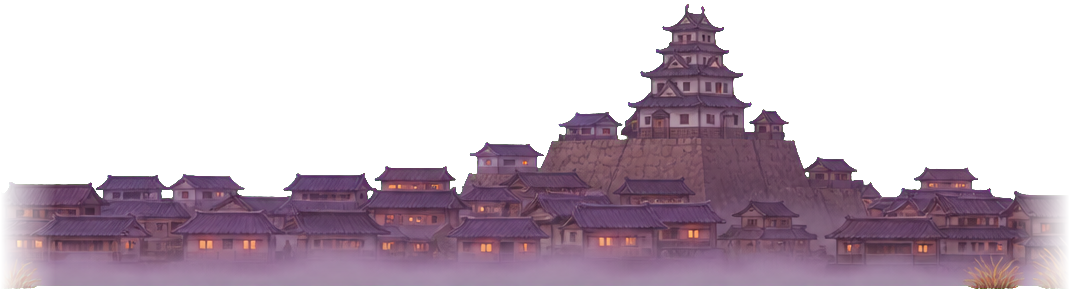
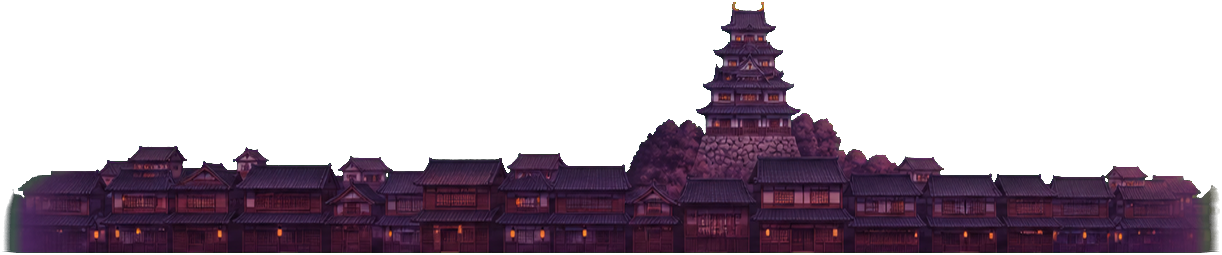
Stage3の遠景の町を「夕闇を焼き込んだ一枚」へ生成し直す(補正の積み重ねを廃止)
「無理にごまかしても違和感残るので生成し直したほうが早い」— そのとおりで、
前の町アセットは素材が明るすぎ、統計合わせ・端のαフェード・強い時刻tintと
補正を三段重ねても白茶けた靄の塊が残っていた。

正しい状態を絵に焼き込んで生成し直した:
・【暗い夕闇の町】(暗い灰紫〜臙脂の影)。窓と軒下の橙の灯りだけが効く
・靄は薄暗い紫(白い霧を厳禁に)
・左右の端は建物を裁ち切らず【靄の中に溶けて終わる】(後処理の端フェード廃止)
・柵・道なし。地面線(実測 253/255)に全て着地
・低い町並みの帯 + 小さな丘の石垣上に天守(頂の高さ244行)

後処理は dekey と緑かぶり抑制(968画素)のみ。
時刻の色調は山の0.30に対し町は0.12へ弱めた(暗い絵に強いtintは橙に浮く)。

※ boss.js は並行セッションが作業中(未コミット差分168行)のため、
   このコミットから除外し、?v= も o のまま残した(クエリ違いでも同一実体を
   取得するため動作に影響なし)。

?v= は screen-safe-20260815p へ一括バンプ(boss.jsのみ意図的にo)。

diff --git a/js/game.js b/js/game.js
@@ -2,17 +2,17 @@
 // Unification of the Nation - ゲームコア
 // ============================================
 
-import { CANVAS_WIDTH, SCREEN_WIDTH, CANVAS_HEIGHT, GAME_STATE, STAGES, DIFFICULTY, OBSTACLE_TYPES, PLAYER, STAGE_DEFAULT_WEAPON, LANE_OFFSET, STAGE5_FLOOR, STAGE6_CORNER, UI_SIZE_ANCHOR, getDeviceProfile, setUiScaleFromFitScale, setCornerInsets, setNotchInsetX, setVirtualPadVisible, setBgmButtonVisible, isTouchOverlayMode } from './constants.js?v=screen-safe-20260815o';
-import { BOSS_STAGING } from './bossStaging.js?v=screen-safe-20260815o';
-import { isUpdateAvailable, applyUpdate, checkForUpdate } from './appUpdate.js?v=screen-safe-20260815o';
-import { getStageSelectLayout, renderStageSelect, STAGE_SELECT_ORDER } from './stageSelect.js?v=screen-safe-20260815o';
-import { clearFilteredImageCache, getFilteredImageCacheStats } from './filteredImage.js?v=screen-safe-20260815o';
-import { BonusStage, BONUS_STAGE_IMAGES } from './bonusStage.js?v=screen-safe-20260815o';
-import { TrainingStage, TRAINING_STAGE_IMAGES } from './trainingStage.js?v=screen-safe-20260815o';
-import { sideBestKey, normalizeSideBests, getSideBest } from './sideStageCommon.js?v=screen-safe-20260815o';
-import { preloadImages, areImagesSettled } from './imageCache.js?v=screen-safe-20260815o';
-import { readPhysicalScreen, computeScreenWidth } from './screenGeometry.js?v=screen-safe-20260815o';
-import { input } from './input.js?v=screen-safe-20260815o';
+import { CANVAS_WIDTH, SCREEN_WIDTH, CANVAS_HEIGHT, GAME_STATE, STAGES, DIFFICULTY, OBSTACLE_TYPES, PLAYER, STAGE_DEFAULT_WEAPON, LANE_OFFSET, STAGE5_FLOOR, STAGE6_CORNER, UI_SIZE_ANCHOR, getDeviceProfile, setUiScaleFromFitScale, setCornerInsets, setNotchInsetX, setVirtualPadVisible, setBgmButtonVisible, isTouchOverlayMode } from './constants.js?v=screen-safe-20260815p';
+import { BOSS_STAGING } from './bossStaging.js?v=screen-safe-20260815p';
+import { isUpdateAvailable, applyUpdate, checkForUpdate } from './appUpdate.js?v=screen-safe-20260815p';
+import { getStageSelectLayout, renderStageSelect, STAGE_SELECT_ORDER } from './stageSelect.js?v=screen-safe-20260815p';
+import { clearFilteredImageCache, getFilteredImageCacheStats } from './filteredImage.js?v=screen-safe-20260815p';
+import { BonusStage, BONUS_STAGE_IMAGES } from './bonusStage.js?v=screen-safe-20260815p';
+import { TrainingStage, TRAINING_STAGE_IMAGES } from './trainingStage.js?v=screen-safe-20260815p';
+import { sideBestKey, normalizeSideBests, getSideBest } from './sideStageCommon.js?v=screen-safe-20260815p';
+import { preloadImages, areImagesSettled } from './imageCache.js?v=screen-safe-20260815p';
+import { readPhysicalScreen, computeScreenWidth } from './screenGeometry.js?v=screen-safe-20260815p';
+import { input } from './input.js?v=screen-safe-20260815p';
 
 // 最上層の会敵歩行の速度倍率。決戦前の一歩を重くするため通常より遅く歩かせる。
 const STAGE6_APPROACH_SPEED_SCALE = 0.46;   // 会敵歩行の速さ(通常歩行に対する比)
@@ -50,18 +50,18 @@ const STAGE6_DUEL_LEAD_OUT_MS = 1400;   // 開戦後に通常追従へ戻す
 // ボスが足を止めてから名乗りまでの実測483msで残差1.5pxまで収束する。
 const STAGE6_DUEL_LEAD_OMEGA = 12;
 const STAGE6_DUEL_LEAD_MAX_PX = 460;    // 先行量の上限(異常な間合いでカメラが飛ばない保険)
-import { Player } from './player.js?v=screen-safe-20260815o';
-import { createSubWeapon } from './weapon.js?v=screen-safe-20260815o';
-import { Stage, preloadStageImages, prefetchStageImages, areStageImagesSettled } from './stage.js?v=screen-safe-20260815o';
-import { GRAPPLE_PHASE } from './stage6Grapple.js?v=screen-safe-20260815o';
-import { UI, renderTitleScreen, renderTitleDebugWindow, renderGameOverScreen, renderStatusScreen, renderStageClearAnnouncement, renderLevelUpChoiceScreen, getLevelUpChoiceLayout, renderSideResultScreen, getSideResultLayout, renderPauseScreen, getPauseReturnButton, getPauseMapButton, renderGameClearScreen, renderIntro, renderEnding, getTitleScreenLayout, getStatusScreenLayout, getTitleDebugLayout, getUpdateModalLayout, renderBossNameBanner, getBossNameBannerBox } from './ui.js?v=screen-safe-20260815o';
-import { CollisionManager, checkPlayerEnemyCollision, checkEnemyAttackHit } from './collision.js?v=screen-safe-20260815o';
-import { saveManager } from './save.js?v=screen-safe-20260815o';
-import { shop } from './shop.js?v=screen-safe-20260815o';
-import { audio } from './audio.js?v=screen-safe-20260815o';
-import { ShadowRenderer } from './shadow.js?v=screen-safe-20260815o';
-import { applyShogunCombat } from './shogunCombatHelper.js?v=screen-safe-20260815o';
-import { getRockVisualPalette } from './obstacle.js?v=screen-safe-20260815o';
+import { Player } from './player.js?v=screen-safe-20260815p';
+import { createSubWeapon } from './weapon.js?v=screen-safe-20260815p';
+import { Stage, preloadStageImages, prefetchStageImages, areStageImagesSettled } from './stage.js?v=screen-safe-20260815p';
+import { GRAPPLE_PHASE } from './stage6Grapple.js?v=screen-safe-20260815p';
+import { UI, renderTitleScreen, renderTitleDebugWindow, renderGameOverScreen, renderStatusScreen, renderStageClearAnnouncement, renderLevelUpChoiceScreen, getLevelUpChoiceLayout, renderSideResultScreen, getSideResultLayout, renderPauseScreen, getPauseReturnButton, getPauseMapButton, renderGameClearScreen, renderIntro, renderEnding, getTitleScreenLayout, getStatusScreenLayout, getTitleDebugLayout, getUpdateModalLayout, renderBossNameBanner, getBossNameBannerBox } from './ui.js?v=screen-safe-20260815p';
+import { CollisionManager, checkPlayerEnemyCollision, checkEnemyAttackHit } from './collision.js?v=screen-safe-20260815p';
+import { saveManager } from './save.js?v=screen-safe-20260815p';
+import { shop } from './shop.js?v=screen-safe-20260815p';
+import { audio } from './audio.js?v=screen-safe-20260815p';
+import { ShadowRenderer } from './shadow.js?v=screen-safe-20260815p';
+import { applyShogunCombat } from './shogunCombatHelper.js?v=screen-safe-20260815p';
+import { getRockVisualPalette } from './obstacle.js?v=screen-safe-20260815p';
 
 // 端末ディスプレイの角丸推定（updateCornerInsets が使う）。
 // R ≒ 画面短辺 × 11%。退避量はコーナー円の幾何最小 0.293R に円形ボタンぶんの
@@ -1183,7 +1183,7 @@ class Game {
         shop.reset();
 
         // 武器作成関数をインポート
-        import('./weapon.js?v=screen-safe-20260815o').then(module => {
+        import('./weapon.js?v=screen-safe-20260815p').then(module => {
             // 基本ステータス復元
             this.currentStageNumber = saveData.progress.currentStage;
             // セレクト画面の解放判定。旧セーブ(フィールド無し)は「保存された次のステージ

diff --git a/js/stage.js b/js/stage.js
@@ -2,23 +2,23 @@
 // Unification of the Nation - ステージ管理
 // ============================================
 
-import { CANVAS_WIDTH, CANVAS_HEIGHT, SCREEN_WIDTH, STAGES, ENEMY_TYPES, OBSTACLE_TYPES, LANE_OFFSET, STAGE5_FLOOR, STAGE6_CORNER } from './constants.js?v=screen-safe-20260815o';
-import { BOSS_STAGING } from './bossStaging.js?v=screen-safe-20260815o';
-import { createEnemy } from './enemy.js?v=screen-safe-20260815o';
-import { createBoss } from './boss.js?v=screen-safe-20260815o';
-import { createObstacle } from './obstacle.js?v=screen-safe-20260815o';
-import { audio } from './audio.js?v=screen-safe-20260815o';
-import { generateStairsCanvas } from './stairRenderer.js?v=screen-safe-20260815o';
+import { CANVAS_WIDTH, CANVAS_HEIGHT, SCREEN_WIDTH, STAGES, ENEMY_TYPES, OBSTACLE_TYPES, LANE_OFFSET, STAGE5_FLOOR, STAGE6_CORNER } from './constants.js?v=screen-safe-20260815p';
+import { BOSS_STAGING } from './bossStaging.js?v=screen-safe-20260815p';
+import { createEnemy } from './enemy.js?v=screen-safe-20260815p';
+import { createBoss } from './boss.js?v=screen-safe-20260815p';
+import { createObstacle } from './obstacle.js?v=screen-safe-20260815p';
+import { audio } from './audio.js?v=screen-safe-20260815p';
+import { generateStairsCanvas } from './stairRenderer.js?v=screen-safe-20260815p';
 import {
     GRAPPLE_PHASE, createGrappleState, isGrappleActive, grappleProgress,
     startGrapple, updateGrapple, updateGrappleVisual, grapplePullEase, grapplePullPosition,
     renderGrappleBehind, renderGrappleFront
-} from './stage6Grapple.js?v=screen-safe-20260815o';
-import { getImage, preloadImages, prefetchImages, areImagesSettled, shouldSkipPrefetch } from './imageCache.js?v=screen-safe-20260815o';
+} from './stage6Grapple.js?v=screen-safe-20260815p';
+import { getImage, preloadImages, prefetchImages, areImagesSettled, shouldSkipPrefetch } from './imageCache.js?v=screen-safe-20260815p';
 // 画像描画は drawImageGraded を通す。ctx.filter が none のときは素通しで、
 // 掛かっているときだけフィルタ済みキャッシュを貼る(毎フレームの色調フィルタが
 // 低スペック端末での処理落ちの主因だった。詳細は filteredImage.js)。
-import { drawImageGraded } from './filteredImage.js?v=screen-safe-20260815o';
+import { drawImageGraded } from './filteredImage.js?v=screen-safe-20260815p';
 
 /**
  * 背景の添景を床帯のどこに植えるか（groundY からの奥行き）。
@@ -76,7 +76,7 @@ const STAGE_IMAGE_SOURCES = {
     },
     3: {
         fields: {
-            stage3TownFarImage: 'images/stage3_town_far.png?v=20260815_far2',
+            stage3TownFarImage: 'images/stage3_town_far.png?v=20260815_far3',
             stage3RangeTailImage: 'images/stage3_range_tail.png?v=20260815_tail2',
             stage3GroundImage: 'images/stage3_ground_mountain_tile.png',
             // 遠景の山並み。1枚をミラー連結してあるので横に繰り返すと稜線が繋がる
@@ -4891,9 +4891,12 @@ export class Stage {
             // (実機フィードバック 2026-08-15)。
             const town = this.stage3TownFarImage;
             if (town?.complete && town.naturalWidth > 0 && town.naturalHeight > 0) {
-                const townTinted = this.getStage3MountainTinted(town, tone);
-                const T_H = 140;
-                const T_GROUND = 286 / 293; // 実測: 地面線の行 / 画像の高さ
+                // 町は山ほど時刻の色へ寄せない(暗い夕闇を焼き込んだアセットなので、
+                // 山と同じ0.30の霞だと橙寄りに浮く。0.12で軽く馴染ませるだけ)。
+                const townTone = this.interpolateColor(currentPalette.mid, horizonSky, 0.12);
+                const townTinted = this.getStage3MountainTinted(town, townTone);
+                const T_H = 138;                 // 天守の頂が高さ約132px(=134相当を維持)
+                const T_GROUND = 253 / 255; // 実測: 地面線の行 / 画像の高さ
                 const tW = Math.round(T_H * (town.naturalWidth / town.naturalHeight));
                 // 停止時に画面 x=520 へ来るよう、遠景の座標系(=同じparallax)で置く
                 const townAnchor = 520 + (this.maxProgress - CANVAS_WIDTH) * spec.parallax;

diff --git a/js/player.js b/js/player.js
@@ -2,11 +2,11 @@
 // Unification of the Nation - プレイヤークラス
 // ============================================
 
-import { PLAYER, GRAVITY, FRICTION, COLORS, LANE_OFFSET } from './constants.js?v=screen-safe-20260815o';
-import { input } from './input.js?v=screen-safe-20260815o';
+import { PLAYER, GRAVITY, FRICTION, COLORS, LANE_OFFSET } from './constants.js?v=screen-safe-20260815p';
+import { input } from './input.js?v=screen-safe-20260815p';
 console.log('[player.js] Imported input instance:', input ? input.instanceId : 'undefined');
-import { audio } from './audio.js?v=screen-safe-20260815o';
-import { game } from './game.js?v=screen-safe-20260815o';
+import { audio } from './audio.js?v=screen-safe-20260815p';
+import { game } from './game.js?v=screen-safe-20260815p';
 import {
     ANIM_STATE, COMBO_ATTACKS, calcExpToNextForLevel,
     BASE_EXP_TO_NEXT, TEMP_NINJUTSU_MAX_STACK_MS, LEVEL_UP_MAX_HP_GAIN, LEVEL_UP_ATK_GAIN,
@@ -14,17 +14,17 @@ import {
     PLAYER_PONYTAIL_CONNECT_LIFT_Y, PLAYER_PONYTAIL_ROOT_ANGLE_RIGHT,
     PLAYER_PONYTAIL_ROOT_ANGLE_LEFT, PLAYER_PONYTAIL_ROOT_SHIFT_X,
     PLAYER_PONYTAIL_NODE_ROOT_OFFSET_X, PLAYER_PONYTAIL_NODE_ROOT_OFFSET_Y
-} from './playerData.js?v=screen-safe-20260815o';
+} from './playerData.js?v=screen-safe-20260815p';
 import {
     applyNormalComboActiveMotion,
     applyNormalComboStartMotion,
     freezeNormalComboFinisherTrailCurve,
     prepareNormalComboFinisherProfile
-} from './normalComboMotion.js?v=screen-safe-20260815o';
-import { applyRendererMixin }    from './playerRenderer.js?v=screen-safe-20260815o';
-import { applySlashTrailMixin }  from './playerSlashTrail.js?v=screen-safe-20260815o';
-import { applySpecialMixin }     from './playerSpecial.js?v=screen-safe-20260815o';
-import { applyShogunCombat }    from './shogunCombatHelper.js?v=screen-safe-20260815o';
+} from './normalComboMotion.js?v=screen-safe-20260815p';
+import { applyRendererMixin }    from './playerRenderer.js?v=screen-safe-20260815p';
+import { applySlashTrailMixin }  from './playerSlashTrail.js?v=screen-safe-20260815p';
+import { applySpecialMixin }     from './playerSpecial.js?v=screen-safe-20260815p';
+import { applyShogunCombat }    from './shogunCombatHelper.js?v=screen-safe-20260815p';
 import {
     SHOGUN_ACTOR_BASE_HEIGHT,
     SHOGUN_ACTOR_BASE_WIDTH,
@@ -38,7 +38,7 @@ import {
     SHOGUN_CROUCH_STANCE_DUTY,
     NINJA_CROUCH_STRIDE_AMP,
     SHOGUN_CROUCH_STRIDE_AMP
-} from './shogunConstants.js?v=screen-safe-20260815o';
+} from './shogunConstants.js?v=screen-safe-20260815p';
 
 const clamp01 = (v) => Math.max(0, Math.min(1, v));
 

diff --git a/js/ui.js b/js/ui.js
@@ -2,9 +2,9 @@
 // Unification of the Nation - UIクラス
 // ============================================
 
-import { SCREEN_WIDTH, CANVAS_HEIGHT, COLORS, VIRTUAL_PAD, HUD_PANEL_X, getDeviceProfile, getPadLayout, getUiScale, getFontScale, getFitScale, getScreenSafeArea, getUiLeftEdge, getFullHeightSideInset, isTouchOverlayMode, setVirtualPadVisible } from './constants.js?v=screen-safe-20260815o';
+import { SCREEN_WIDTH, CANVAS_HEIGHT, COLORS, VIRTUAL_PAD, HUD_PANEL_X, getDeviceProfile, getPadLayout, getUiScale, getFontScale, getFitScale, getScreenSafeArea, getUiLeftEdge, getFullHeightSideInset, isTouchOverlayMode, setVirtualPadVisible } from './constants.js?v=screen-safe-20260815p';
 
-import { isUpdateAvailable } from './appUpdate.js?v=screen-safe-20260815o';
+import { isUpdateAvailable } from './appUpdate.js?v=screen-safe-20260815p';
 
 // 左上HUDの文字だけ、実寸アンカー(getFontScale)からさらに落とす係数。
 // 実測 16.0css-px は情報量の割に大きいという実機フィードバック(2026-08-09)。
@@ -22,9 +22,9 @@ const UPDATE_MODAL_TITLE = '新しいバージョンがあります';
 const UPDATE_MODAL_BODY = '最新の状態に更新してください';
 const UPDATE_MODAL_BUTTON_TOUCH = 'タップして更新';
 const UPDATE_MODAL_BUTTON_KEY = 'クリックまたはSPACEで更新';
-import { input } from './input.js?v=screen-safe-20260815o';
-import { audio } from './audio.js?v=screen-safe-20260815o';
-import { saveManager } from './save.js?v=screen-safe-20260815o';
+import { input } from './input.js?v=screen-safe-20260815p';
+import { audio } from './audio.js?v=screen-safe-20260815p';
+import { saveManager } from './save.js?v=screen-safe-20260815p';
 
 const CONTROL_MANUAL_TEXT = '←→：移動 | ↓：しゃがみ | ↑・SPACE：ジャンプ | Z：攻撃 | X：忍具 | C：切り替え | S：奥義 | SHIFT：ダッシュ | ESC：ポーズ';
 const TITLE_MANUAL_TEXT = '↑↓：選択 | ←→：難易度 | SPACE：決定';

diff --git a/js/playerRenderer.js b/js/playerRenderer.js
@@ -1,17 +1,17 @@
 // Unification of the Nation - 描画系 mixin
 
-import { PLAYER, GRAVITY, FRICTION, COLORS, LANE_OFFSET } from './constants.js?v=screen-safe-20260815o';
-import { audio } from './audio.js?v=screen-safe-20260815o';
-import { game } from './game.js?v=screen-safe-20260815o';
+import { PLAYER, GRAVITY, FRICTION, COLORS, LANE_OFFSET } from './constants.js?v=screen-safe-20260815p';
+import { audio } from './audio.js?v=screen-safe-20260815p';
+import { game } from './game.js?v=screen-safe-20260815p';
 import {
     ANIM_STATE, COMBO_ATTACKS, PLAYER_HEADBAND_LINE_WIDTH, PLAYER_SPECIAL_HEADBAND_LINE_WIDTH,
     PLAYER_PONYTAIL_CONNECT_LIFT_Y, PLAYER_PONYTAIL_ROOT_ANGLE_RIGHT,
     PLAYER_PONYTAIL_ROOT_ANGLE_LEFT, PLAYER_PONYTAIL_ROOT_SHIFT_X,
     PLAYER_PONYTAIL_NODE_ROOT_OFFSET_X, PLAYER_PONYTAIL_NODE_ROOT_OFFSET_Y,
     BASE_EXP_TO_NEXT, TEMP_NINJUTSU_MAX_STACK_MS, LEVEL_UP_MAX_HP_GAIN
-} from './playerData.js?v=screen-safe-20260815o';
-import { applyShogunRendererMixin } from './shogunRendererHelper.js?v=screen-safe-20260815o';
-import { drawImageGraded } from './filteredImage.js?v=screen-safe-20260815o';
+} from './playerData.js?v=screen-safe-20260815p';
+import { applyShogunRendererMixin } from './shogunRendererHelper.js?v=screen-safe-20260815p';
+import { drawImageGraded } from './filteredImage.js?v=screen-safe-20260815p';
 import {
     SHOGUN_SCALE,
     SHOGUN_ACTOR_BASE_HEIGHT,
@@ -37,7 +37,7 @@ import {
     NINJA_CROUCH_LIFT_AMP,
     SHOGUN_CROUCH_LIFT_AMP,
     SHOGUN_RUN_STRIDE_CENTER_BIAS
-} from './shogunConstants.js?v=screen-safe-20260815o';
+} from './shogunConstants.js?v=screen-safe-20260815p';
 
 export function applyRendererMixin(PlayerClass) {
     applyShogunRendererMixin(PlayerClass);

diff --git a/js/enemy.js b/js/enemy.js
@@ -2,13 +2,13 @@
 // Unification of the Nation - 敵クラス
 // ============================================
 
-import { ENEMY_TYPES, GRAVITY, CANVAS_WIDTH, LANE_OFFSET } from './constants.js?v=screen-safe-20260815o';
+import { ENEMY_TYPES, GRAVITY, CANVAS_WIDTH, LANE_OFFSET } from './constants.js?v=screen-safe-20260815p';
 /* 雑魚・中ボスもフロアボスと同じ素体リグで描く(bodyHeight で縮小するだけ)。
    旧 renderUnifiedEnemyModel は当面デッドコードとして残す。 */
 import {
     MOB_DESIGNS, renderBossActor,
     mobSpear, mobKatana, mobShuriken, mobNaginata
-} from './bossRenderer.js?v=screen-safe-20260815o';
+} from './bossRenderer.js?v=screen-safe-20260815p';
 
 /* 雑魚の素体は【忍者(プレイヤー)と同じ大きさ】で描く。
    実測(細い黒=刀の柄を除外して頭頂を検出): プレイヤーの描画全高は箱と同じ 72px、
@@ -17,7 +17,7 @@ import {
    雑魚3種は 72 に揃える(当たり判定は変更しない)。
    中ボスの武将は格を出すため自分の箱(90)のまま。 */
 const PLAYER_BODY_H = 70.32;   // 忍者の描画全高 = height(72) - 頭半径(16.8)*0.1
-import { audio } from './audio.js?v=screen-safe-20260815o';
+import { audio } from './audio.js?v=screen-safe-20260815p';
 
 const ENEMY_HEADBAND_BASE = '#4f2f72';
 const ENEMY_HEADBAND_HIGHLIGHT = '#7e58a6';

diff --git a/js/trainingStage.js b/js/trainingStage.js
@@ -15,10 +15,10 @@
 // 遠近の付いた床を焼き込んだ絵をそのまま敷くと他ステージと奥行きの文法が食い違う。
 // 固定画面なのでパララックス不要。読めない環境ではコード描画にフォールバック。
 
-import { CANVAS_WIDTH, CANVAS_HEIGHT, LANE_OFFSET, ENEMY_TYPES } from './constants.js?v=screen-safe-20260815o';
-import { createEnemy } from './enemy.js?v=screen-safe-20260815o';
-import { getImage } from './imageCache.js?v=screen-safe-20260815o';
-import { pushGain, updateGainPops, renderGainPops, tickTimeLimit, clampToLeftEdge } from './sideStageCommon.js?v=screen-safe-20260815o';
+import { CANVAS_WIDTH, CANVAS_HEIGHT, LANE_OFFSET, ENEMY_TYPES } from './constants.js?v=screen-safe-20260815p';
+import { createEnemy } from './enemy.js?v=screen-safe-20260815p';
+import { getImage } from './imageCache.js?v=screen-safe-20260815p';
+import { pushGain, updateGainPops, renderGainPops, tickTimeLimit, clampToLeftEdge } from './sideStageCommon.js?v=screen-safe-20260815p';
 
 // 開始前に読み込む画像（game.requestStageStart が本編と同じ暗幕待ちに使う）
 export const TRAINING_STAGE_IMAGES = [

diff --git a/js/playerSlashTrail.js b/js/playerSlashTrail.js
@@ -1,17 +1,17 @@
 // Unification of the Nation - 斬撃トレイル mixin
 
-import { PLAYER, GRAVITY, FRICTION, LANE_OFFSET } from './constants.js?v=screen-safe-20260815o';
-import { COMBO_ATTACKS, NORMAL_COMBO_STEP3_LAUNCH_VY, NORMAL_COMBO_STEP3_LUNGE_HSCALE_COEF, SHOGUN_STEP3_MOTION_SCALE } from './playerData.js?v=screen-safe-20260815o';
+import { PLAYER, GRAVITY, FRICTION, LANE_OFFSET } from './constants.js?v=screen-safe-20260815p';
+import { COMBO_ATTACKS, NORMAL_COMBO_STEP3_LAUNCH_VY, NORMAL_COMBO_STEP3_LUNGE_HSCALE_COEF, SHOGUN_STEP3_MOTION_SCALE } from './playerData.js?v=screen-safe-20260815p';
 import {
     SHOGUN_ACTOR_BASE_WIDTH,
     SHOGUN_ACTOR_BASE_HEIGHT,
     SHOGUN_ARM_REACH_SCALE
-} from './shogunConstants.js?v=screen-safe-20260815o';
+} from './shogunConstants.js?v=screen-safe-20260815p';
 import {
     freezeNormalComboFinisherTrailCurve,
     getNormalComboStep4RiseScale,
     getNormalComboStep5DownwardControl
-} from './normalComboMotion.js?v=screen-safe-20260815o';
+} from './normalComboMotion.js?v=screen-safe-20260815p';
 
 const COMBO_STEP5_END_TRIM_FACTOR = 0.9;
 const getComboStep5EndTrimFactor = (physicalScale = 1) => {

diff --git a/js/playerSpecial.js b/js/playerSpecial.js
@@ -1,16 +1,16 @@
 // Unification of the Nation - 分身クローン mixin
 
-import { PLAYER, LANE_OFFSET } from './constants.js?v=screen-safe-20260815o';
-import { audio } from './audio.js?v=screen-safe-20260815o';
-import { createSubWeapon } from './weapon.js?v=screen-safe-20260815o';
-import { ANIM_STATE, COMBO_ATTACKS } from './playerData.js?v=screen-safe-20260815o';
+import { PLAYER, LANE_OFFSET } from './constants.js?v=screen-safe-20260815p';
+import { audio } from './audio.js?v=screen-safe-20260815p';
+import { createSubWeapon } from './weapon.js?v=screen-safe-20260815p';
+import { ANIM_STATE, COMBO_ATTACKS } from './playerData.js?v=screen-safe-20260815p';
 import {
     SHOGUN_ACTOR_BASE_WIDTH,
     SHOGUN_ACTOR_BASE_HEIGHT,
     SHOGUN_SCALE,
     SHOGUN_SPECIAL_CLONE_SPACING_SCALE
-} from './shogunConstants.js?v=screen-safe-20260815o';
-import { getNormalComboStep4RiseScale } from './normalComboMotion.js?v=screen-safe-20260815o';
+} from './shogunConstants.js?v=screen-safe-20260815p';
+import { getNormalComboStep4RiseScale } from './normalComboMotion.js?v=screen-safe-20260815p';
 
 export function applySpecialMixin(PlayerClass) {
 

diff --git a/js/bonusStage.js b/js/bonusStage.js
@@ -20,11 +20,11 @@
 // 画像: images/bonus_kura_*.png（Codex/gpt-image 生成。読めない環境では
 // コード描画にフォールバック）。
 
-import { CANVAS_WIDTH, CANVAS_HEIGHT, LANE_OFFSET } from './constants.js?v=screen-safe-20260815o';
-import { audio } from './audio.js?v=screen-safe-20260815o';
-import { getImage } from './imageCache.js?v=screen-safe-20260815o';
-import { drawKobanImage } from './ui.js?v=screen-safe-20260815o';
-import { pushGain, updateGainPops, renderGainPops, tickTimeLimit, clampToLeftEdge } from './sideStageCommon.js?v=screen-safe-20260815o';
+import { CANVAS_WIDTH, CANVAS_HEIGHT, LANE_OFFSET } from './constants.js?v=screen-safe-20260815p';
+import { audio } from './audio.js?v=screen-safe-20260815p';
+import { getImage } from './imageCache.js?v=screen-safe-20260815p';
+import { drawKobanImage } from './ui.js?v=screen-safe-20260815p';
+import { pushGain, updateGainPops, renderGainPops, tickTimeLimit, clampToLeftEdge } from './sideStageCommon.js?v=screen-safe-20260815p';
 
 // 小判1枚の価値（両）。よろず屋の相場に合わせてここだけで調整する。
 const KOBAN_VALUE = 10;

diff --git a/js/weapon.js b/js/weapon.js
@@ -2,10 +2,10 @@
 // Unification of the Nation - 武器クラス
 // ============================================
 
-import { GRAVITY, CANVAS_WIDTH, LANE_OFFSET, PLAYER } from './constants.js?v=screen-safe-20260815o';
-import { audio } from './audio.js?v=screen-safe-20260815o';
-import { SHOGUN_SCALE } from './shogunConstants.js?v=screen-safe-20260815o';
-import { withDropShadow, drawSparks, drawBlastFlash, makeParticles, smoothstep01, pushTrailPoint, drawCometRibbon } from './weaponFx.js?v=screen-safe-20260815o';
+import { GRAVITY, CANVAS_WIDTH, LANE_OFFSET, PLAYER } from './constants.js?v=screen-safe-20260815p';
+import { audio } from './audio.js?v=screen-safe-20260815p';
+import { SHOGUN_SCALE } from './shogunConstants.js?v=screen-safe-20260815p';
+import { withDropShadow, drawSparks, drawBlastFlash, makeParticles, smoothstep01, pushTrailPoint, drawCometRibbon } from './weaponFx.js?v=screen-safe-20260815p';
 
 // 武器ジオメトリは「武器を振る主体(owner/player)のワールド寸法」を基準に組み立てる。
 // 将軍は width/height が素体(40x60)なので getWorldWidth/Height(=素体×SHOGUN_SCALE) を読む。

diff --git a/js/stageSelect.js b/js/stageSelect.js
@@ -9,9 +9,9 @@
 // ノード座標は「画像内の比率(u,v)」で持ち、cover 変換で画面座標へ写す。
 // 画像を差し替えても u,v を微調整するだけで済む（map_generation_prompt.md 参照）。
 
-import { SCREEN_WIDTH, CANVAS_HEIGHT, STAGES, getUiScale, getFontScale, getScreenSafeArea, isTouchOverlayMode } from './constants.js?v=screen-safe-20260815o';
-import { fillTextInkCentered, drawScreenManualLine, formatCount } from './ui.js?v=screen-safe-20260815o';
-import { getSideBest } from './sideStageCommon.js?v=screen-safe-20260815o';
+import { SCREEN_WIDTH, CANVAS_HEIGHT, STAGES, getUiScale, getFontScale, getScreenSafeArea, isTouchOverlayMode } from './constants.js?v=screen-safe-20260815p';
+import { fillTextInkCentered, drawScreenManualLine, formatCount } from './ui.js?v=screen-safe-20260815p';
+import { getSideBest } from './sideStageCommon.js?v=screen-safe-20260815p';
 
 // ノード定義。kind: main=本編 / bonus=小判蔵(第2階層踏破で解放) /
 // training=修行道場(第3階層踏破で解放)。どちらも実装済み。
